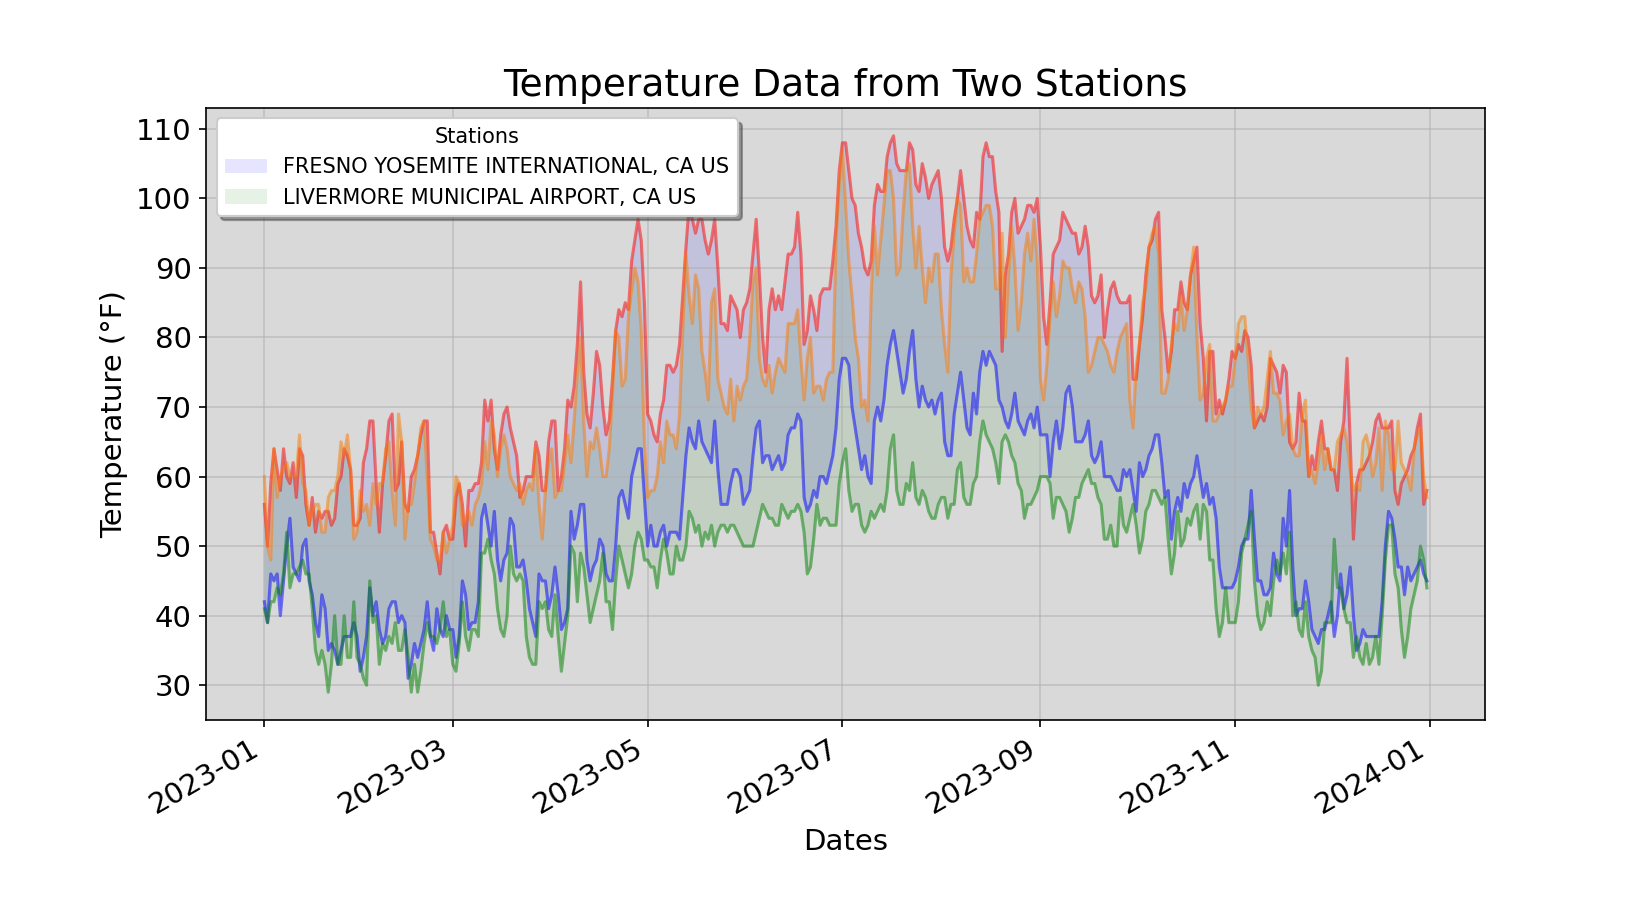
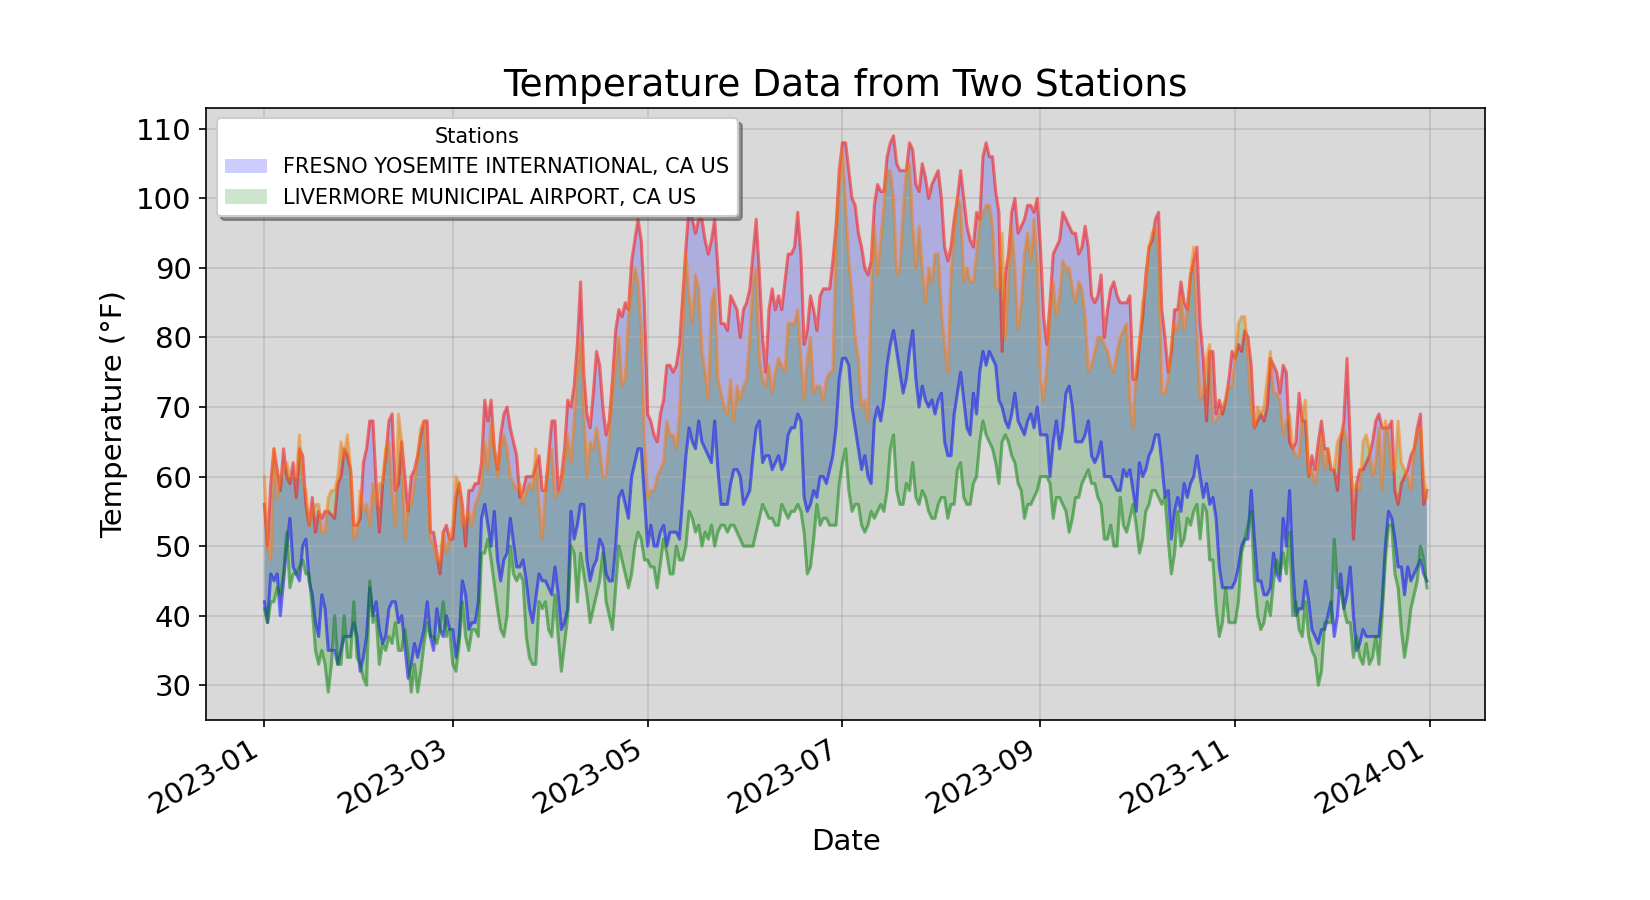
Clean up tempvizcp.py

Changed region(s): [[0.1545, 0.2178, 0.8655, 0.7156], [0.1236, 0.1556, 0.1855, 0.2489], [0.4945, 0.9022, 0.5255, 0.9644]]

diff --git a/figure.py b/figure.py
@@ -22,9 +22,9 @@ def show_figure(datas: list[dict[str, list]]):
 
     Exceptions:
 
-        KeyError: Will occur if one or more of the the required key-value pairs
+        KeyError: If one or more of the the required key-value pairs
         are missing.
-        ValueError: Will occur if one or more of the values of 'lows' and/or
+        ValueError: If one or more of the values of 'lows' and/or
         'highs' are not integers.
     """
     data1 = datas[0]
@@ -41,12 +41,12 @@ def show_figure(datas: list[dict[str, list]]):
     ax.plot(data2['dates'], data2['lows'], color='green', alpha=0.5,)
     ax.plot(data2['dates'], data2['highs'], color='#FF7900', alpha=0.5)
     ax.fill_between(data1['dates'], data1['lows'], data1['highs'],
-                    facecolor='blue', alpha=0.1, label=data1_name)
+                    facecolor='blue', alpha=0.2, label=data1_name)
     ax.fill_between(data2['dates'], data2['lows'], data2['highs'],
-                    facecolor='green', alpha=0.1, label=data2_name)
+                    facecolor='green', alpha=0.2, label=data2_name)
 
     ax.set_title("Temperature Data from Two Stations", fontsize=18)
-    ax.set_xlabel('Dates', fontsize=14)
+    ax.set_xlabel('Date', fontsize=14)
     fig.autofmt_xdate()
     ax.set_ylabel("Temperature (\xb0F)", fontsize=14)
     ax.tick_params(labelsize=14)

diff --git a/tempvizcp.py b/tempvizcp.py
@@ -1,15 +1,14 @@
 from data import collect_data
 from figure import show_figure
 
-
 print("---------")
 print("TempVizCP")
 print("---------")
 
-intro = ("This program plots the temperature range of two weather stations at "
-         "a certain \nperiod of time.")
-instruction = ("\nWeather datas are extracted from a .csv file. Make sure that "
-               "both files are \nincluded in the 'datas' directory before "
+intro = ("This program takes the temperature range of two data sets and plots "
+         "them into a figure.")
+instruction = ("\nDatas are extracted from a CSV file. Make sure that both "
+               "files are included in the datas directory\nbefore "
                "continuing.")
 print(intro, instruction)
 
@@ -27,3 +26,4 @@ while len(datas) != 2:
 
 if len(datas) == 2:
     show_figure(datas)
+    print("\nProgram ended.")
